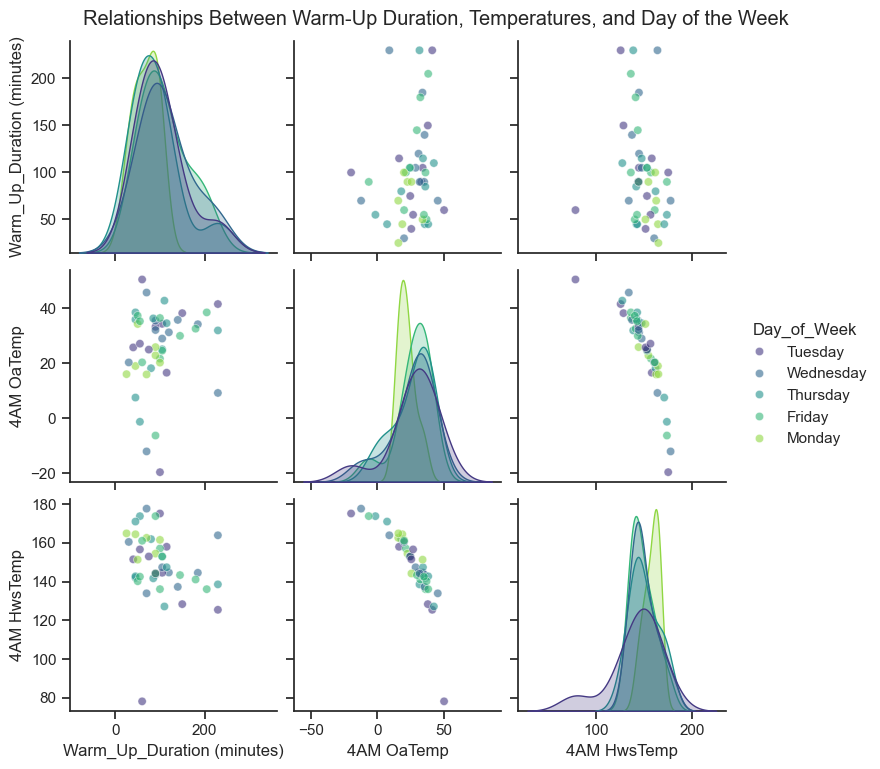
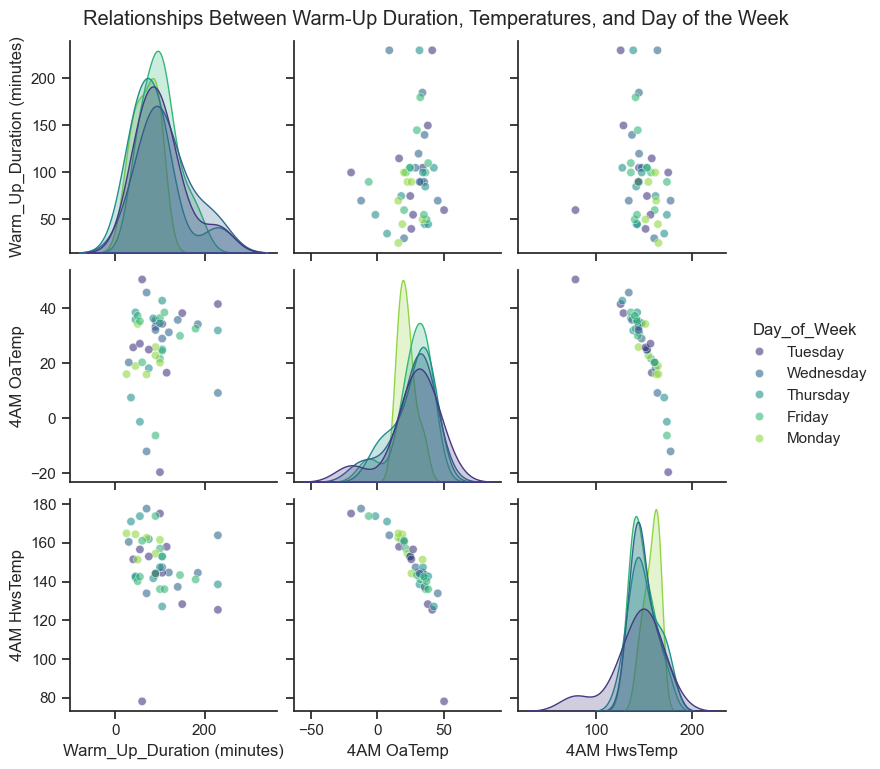
Recovery analytics code fix to prevent data missing from plot charts of sensor vals

diff --git a/OptimalStartStop/RecoveryTimeAnalytics/main.py b/OptimalStartStop/RecoveryTimeAnalytics/main.py
@@ -47,15 +47,22 @@ for label, (start, end) in time_ranges.items():
 
     # Step-by-step troubleshooting: Call functions explicitly
     print(f"Step 1: Filtering data for time range {start} to {end}")
-    subset_data = cold_snap_data.loc[start:end].copy()
+    subset_data = cold_snap_data.loc[start:end].copy()  # Original data retained for plotting
+
+    # Create filtered data for calculations
+    print("Step 1.1: Filtering data for warm-up window hours")
+    filtered_data = subset_data[subset_data.index.hour.isin(WARMUP_WINDOWS_HOURS)].copy()
+    if filtered_data.empty:
+        print(f"[WARNING!] Filtered data is empty for time range {start} to {end}. Skipping analysis.")
+        continue
 
     print("Step 2: Calculating daily setpoints...")
-    daily_setpoints = calculate_daily_setpoints(subset_data, EXCLUDE_DAYTYPES)
+    daily_setpoints = calculate_daily_setpoints(filtered_data, EXCLUDE_DAYTYPES)
     print(daily_setpoints[["occupied_threshold", "unoccupied_threshold"]])
 
     print("Step 3: Processing data with daily setpoints...")
-    subset_data = process_data_with_daily_setpoints(
-        subset_data,
+    filtered_data = process_data_with_daily_setpoints(
+        filtered_data,
         daily_setpoints,
         ZONE_TEMP_PROX_THRES,
         STEEP_INCREASE_THRES,
@@ -63,8 +70,8 @@ for label, (start, end) in time_ranges.items():
     )
 
     print("Step 4: Analyzing warm-up data...")
-    subset_data, daily_setpoints, results = analyze_warm_up(
-        cold_snap_data,
+    _, _, results = analyze_warm_up(
+        filtered_data,  # Use filtered data for calculations
         start,
         end,
         EXCLUDE_DAYTYPES,
@@ -72,9 +79,15 @@ for label, (start, end) in time_ranges.items():
         STEEP_INCREASE_THRES,
         DATASET_MIN_PER_TIME_STEP,
         MAX_WARMUP_TIME_MINUTES,
-        WARMUP_WINDOWS_HOURS, 
+        WARMUP_WINDOWS_HOURS,
     )
 
+    # Merge Warm_Up_Active column back into subset_data for plotting
+    print("Step 5: Merging Warm_Up_Active column back into subset_data for plotting...")
+    subset_data = subset_data.merge(
+        filtered_data[["Warm_Up_Active"]], how="left", left_index=True, right_index=True
+    )
+    subset_data["Warm_Up_Active"].fillna(0, inplace=True)  # Fill missing values with 0
 
     # Debug results
     if not results.empty:
@@ -87,9 +100,10 @@ for label, (start, end) in time_ranges.items():
         # Save the results to the corresponding directory
         save_results_to_csv(results, output_subdir)
 
-        # Generate plots
+        # Generate plots using the full dataset (subset_data)
+        print("Generating plots...")
         plot_line_chart(
-            subset_data,
+            subset_data,  # Full data for plotting, now with Warm_Up_Active column
             daily_setpoints["occupied_threshold"].mean(),
             daily_setpoints["unoccupied_threshold"].mean(),
             output_subdir,

diff --git a/OptimalStartStop/PNNL_Model_Three/pnnl_model3_method.py b/OptimalStartStop/PNNL_Model_Three/pnnl_model3_method.py
@@ -10,6 +10,21 @@ alpha_3a = 10  # Default time to change indoor temp by 1 degree
 alpha_3b = 5  # Time interval for outdoor temp influence
 alpha_3d = 0  # Dynamic adjustment for start time
 
+# Function to calculate the optimal start time
+def calculate_optimal_start_time(current_conditions, alpha_3a, alpha_3b, alpha_3d):
+    T_sp = current_conditions["occupied_set_point"]
+    T_z = current_conditions["zone_temp"]
+    T_o = current_conditions["outdoor_temp"]
+
+    # Optimal start time formula
+    t_opt = (
+        alpha_3a * (T_sp - T_z)
+        + alpha_3b * (T_sp - T_z) * (T_sp - T_o) / alpha_3b
+        + alpha_3d
+    )
+    return t_opt
+
+
 # Historical data with sensor values recorded at 4 AM from writeup
 historical_data = [
     {"zone_temp": 64.79, "outdoor_temp": 41.4, "warmup_time_minutes_history": 230},
@@ -108,19 +123,6 @@ for iteration in range(n_iterations):
 # Output optimized parameters
 print(f"Optimized Parameters: alpha_3a = {alpha_3a:.4f}, alpha_3b = {alpha_3b:.4f}, alpha_3d = {alpha_3d:.4f}")
 
-# Function to calculate the optimal start time
-def calculate_optimal_start_time(current_conditions, alpha_3a, alpha_3b, alpha_3d):
-    T_sp = current_conditions["occupied_set_point"]
-    T_z = current_conditions["zone_temp"]
-    T_o = current_conditions["outdoor_temp"]
-
-    # Optimal start time formula
-    t_opt = (
-        alpha_3a * (T_sp - T_z)
-        + alpha_3b * (T_sp - T_z) * (T_sp - T_o) / alpha_3b
-        + alpha_3d
-    )
-    return t_opt
 
 # Calculate optimal start time using the optimized parameters
 optimal_start_time = calculate_optimal_start_time(current_conditions, alpha_3a, alpha_3b, alpha_3d)
